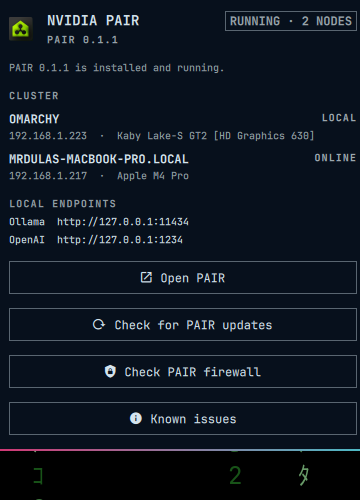
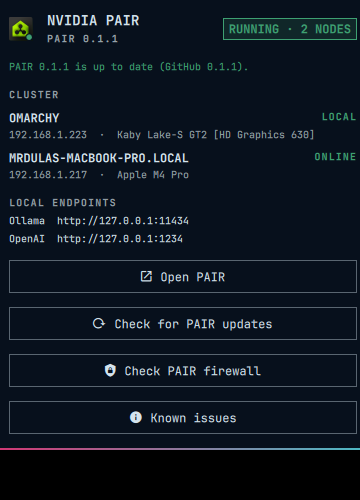
Color PAIR status red, yellow, and green
Red when PAIR is down or missing, yellow when it is running with no
cluster peers, green when at least one other node is online. The chip
gets a status dot; the panel badge and node labels use the same colors.

diff --git a/Panel.qml b/Panel.qml
@@ -36,6 +36,9 @@ Panel {
   readonly property var updater: host && host.updater ? host.updater : Model.updateAction({}, false)
   readonly property var pairNodes: host && host.pairNodes ? host.pairNodes : []
   readonly property bool showKnownIssues: host ? host.showKnownIssues === true : false
+  readonly property string healthLevel: host && host.healthLevel ? host.healthLevel : "fail"
+  readonly property color healthColor: host && host.healthColor ? host.healthColor : Color.urgent
+  readonly property string healthLabel: host && host.healthLabel ? host.healthLabel : "NOT INSTALLED"
 
   readonly property string focusAction: host && host.focusAction ? host.focusAction : "primary"
   readonly property bool cursorActive: host ? host.cursorActive === true : false
@@ -126,7 +129,7 @@ Panel {
         PanelHero {
           title: "NVIDIA PAIR"
           meta: root.heroMeta
-          detail: root.heroDetail
+          detail: ""
           foreground: root.contentForeground
           fontFamily: root.contentFontFamily
           iconComponent: Component {
@@ -134,6 +137,27 @@ Panel {
               iconSize: Style.font.display
               fallbackColor: root.contentForeground
               fallbackFontFamily: root.contentFontFamily
+              healthColor: root.healthColor
+            }
+          }
+          trailingControl: Component {
+            Rectangle {
+              implicitWidth: healthText.implicitWidth + Style.space(12)
+              implicitHeight: healthText.implicitHeight + Style.space(6)
+              radius: Style.cornerRadius
+              color: Qt.rgba(root.healthColor.r, root.healthColor.g, root.healthColor.b, 0.16)
+              border.width: 1
+              border.color: root.healthColor
+
+              Text {
+                id: healthText
+                anchors.centerIn: parent
+                text: root.healthLabel
+                color: root.healthColor
+                font.family: root.contentFontFamily
+                font.pixelSize: Style.font.body
+                font.bold: true
+              }
             }
           }
         }
@@ -141,7 +165,7 @@ Panel {
         Text {
           width: parent.width
           text: root.statusText
-          color: root.lastError !== "" ? root.contentUrgent : Qt.darker(root.contentForeground, 1.4)
+          color: root.lastError !== "" ? root.contentUrgent : root.healthColor
           font.family: root.contentFontFamily
           font.pixelSize: Style.font.caption
           wrapMode: Text.WordWrap
@@ -198,7 +222,7 @@ Panel {
                 Text {
                   id: badge
                   text: Model.nodeMeta(nodeBlock.node)
-                  color: Qt.darker(root.contentForeground, 1.35)
+                  color: Model.nodeMetaColor(nodeBlock.node, "#3ea072", "#d4a017", root.contentUrgent)
                   font.family: root.contentFontFamily
                   font.pixelSize: Style.font.caption
                   font.bold: true

diff --git a/BarWidget.qml b/BarWidget.qml
@@ -41,6 +41,9 @@ BarWidget {
   readonly property bool busy: actionProc.running
   readonly property bool pairReady: pairRunning || pairInstalled
   readonly property int pairNodeCount: pairNodes && pairNodes.length ? pairNodes.length : 0
+  readonly property string healthLevel: Model.healthLevel(pairInstalled, pairRunning, lastError !== "", pairNodes)
+  readonly property color healthColor: Model.healthColor(healthLevel, bar && bar.urgent ? bar.urgent : Color.urgent)
+  readonly property string healthLabel: Model.healthLabel(healthLevel, pairInstalled, pairRunning, pairNodeCount)
   readonly property var updater: Model.updateAction({ updateAvailable: pairUpdateAvailable, latestVersion: pairLatest }, busy && focusAction === "update")
   readonly property string heroMeta: {
     if (pairRunning && pairVersion) return "PAIR " + pairVersion.toUpperCase()
@@ -48,12 +51,7 @@ BarWidget {
     if (pairInstalled) return "INSTALLED"
     return "NOT INSTALLED"
   }
-  readonly property string heroDetail: {
-    if (pairNodeCount > 0) return (pairRunning ? "RUNNING" : "CLUSTER") + " · " + pairNodeCount + (pairNodeCount === 1 ? " NODE" : " NODES")
-    if (pairRunning) return "RUNNING"
-    if (pairInstalled) return "IDLE"
-    return ""
-  }
+  readonly property string heroDetail: healthLabel
   readonly property string primaryLabel: {
     if (busy && focusAction === "primary") return "Working…"
     if (pairRunning) return "Open PAIR"
@@ -64,8 +62,10 @@ BarWidget {
   readonly property string tooltipText: {
     if (busy) return "NVIDIA PAIR — " + (progressText !== "" ? progressText : "working")
     if (pairUpdateAvailable) return "NVIDIA PAIR — update " + pairLatest + " available"
-    if (pairRunning && pairNodeCount > 0) return "PAIR — " + pairNodeCount + (pairNodeCount === 1 ? " node" : " nodes") + " (right-click for cluster)"
-    if (pairRunning) return "PAIR — open app (right-click for cluster/install/update)"
+    if (healthLevel === "ok") return "PAIR — running, " + pairNodeCount + (pairNodeCount === 1 ? " node" : " nodes")
+    if (healthLevel === "warn") return "PAIR — running, no cluster nodes"
+    if (!pairInstalled) return "PAIR — install NVIDIA PAIR"
+    if (!pairRunning) return "PAIR — not running"
     if (pairInstalled) return "PAIR — launch NVIDIA PAIR"
     return "PAIR — install NVIDIA PAIR"
   }
@@ -416,13 +416,14 @@ BarWidget {
     anchors.fill: parent
     bar: root.bar
     text: ""
-    dimmed: root.busy || !root.pairReady
+    dimmed: root.busy
     tooltipText: root.tooltipText
     iconComponent: Component {
       PairIcon {
         anchors.fill: parent
         fallbackColor: button.foreground
         fallbackFontFamily: button.fontFamily
+        healthColor: root.healthColor
       }
     }
     onPressed: function(b) {

diff --git a/Model.js b/Model.js
@@ -3,7 +3,7 @@ function emptyStatus() {
     ok: true,
     error: "",
     pluginId: "io.github.mrdulasolutions.pair",
-    pluginVersion: "1.2.3",
+    pluginVersion: "1.2.4",
     installed: false,
     running: false,
     pairVersion: "",
@@ -121,10 +121,59 @@ function nodeMeta(node) {
   return "OFFLINE"
 }
 
+function nodeMetaColor(node, ok, warn, fail) {
+  if (!node) return fail
+  if (node.local) return node.online === false ? warn : ok
+  if (node.online) return ok
+  return fail
+}
+
 function nodeDetail(node) {
   if (!node) return ""
   var parts = []
   if (node.ip) parts.push(node.ip)
   if (node.gpu) parts.push(node.gpu)
   return parts.join("  ·  ")
+}
+
+function remoteOnlineCount(nodes) {
+  var n = 0
+  if (!nodes || typeof nodes.length !== "number") return 0
+  for (var i = 0; i < nodes.length; i++) {
+    if (nodes[i] && nodes[i].local !== true && nodes[i].online === true) n++
+  }
+  return n
+}
+
+function remoteCount(nodes) {
+  var n = 0
+  if (!nodes || typeof nodes.length !== "number") return 0
+  for (var i = 0; i < nodes.length; i++) {
+    if (nodes[i] && nodes[i].local !== true) n++
+  }
+  return n
+}
+
+// fail = red, warn = yellow, ok = green
+function healthLevel(installed, running, error, nodes) {
+  if (!installed || !running) return "fail"
+  if (remoteCount(nodes) === 0 || remoteOnlineCount(nodes) === 0) return "warn"
+  return "ok"
+}
+
+function healthColor(level, urgent) {
+  if (level === "fail") return urgent || "#c45c5c"
+  if (level === "warn") return "#d4a017"
+  return "#3ea072"
+}
+
+function healthLabel(level, installed, running, nodeCount) {
+  if (level === "ok") {
+    if (nodeCount > 0) return "RUNNING · " + nodeCount + (nodeCount === 1 ? " NODE" : " NODES")
+    return "RUNNING"
+  }
+  if (level === "warn") return "NO NODES"
+  if (!installed) return "NOT INSTALLED"
+  if (!running) return "STOPPED"
+  return "FAILED"
 }

diff --git a/PairIcon.qml b/PairIcon.qml
@@ -7,6 +7,8 @@ Item {
   property real iconSize: Style.bar.iconCanvas
   property color fallbackColor: Color.foreground
   property string fallbackFontFamily: Style.font.family
+  property color healthColor: "#3ea072"
+  property bool showHealth: true
 
   implicitWidth: iconSize
   implicitHeight: iconSize
@@ -16,6 +18,7 @@ Item {
   Image {
     id: mark
     anchors.fill: parent
+    anchors.margins: Math.max(1, root.width * 0.08)
     source: Qt.resolvedUrl("nvpair.png")
     fillMode: Image.PreserveAspectFit
     smooth: true
@@ -30,5 +33,17 @@ Item {
     color: root.fallbackColor
     font.family: root.fallbackFontFamily
     font.pixelSize: Math.max(10, root.iconSize * 0.9)
+  }
+
+  Rectangle {
+    visible: root.showHealth
+    width: Math.max(7, root.width * 0.38)
+    height: width
+    radius: width / 2
+    color: root.healthColor
+    anchors.right: parent.right
+    anchors.bottom: parent.bottom
+    border.width: 1
+    border.color: Color.background
   }
 }

diff --git a/README.md b/README.md
@@ -34,6 +34,8 @@ The first download is about 135 MB.
 
 This plugin is the **only** PAIR control in the Omarchy bar. NVIDIA’s Electron tray popup closes as soon as you leave the top bar on Hyprland, so the plugin hides that tray icon and owns the chip. Left-click is the tray’s working action: open or focus the PAIR window.
 
+The chip’s status dot is a traffic light: **red** PAIR is down or missing, **yellow** running with no cluster peers, **green** running with at least one other node online.
+
 | Action | What it does |
 | --- | --- |
 | Left click | Open / focus the PAIR app (or the helper panel if PAIR is not installed) |
